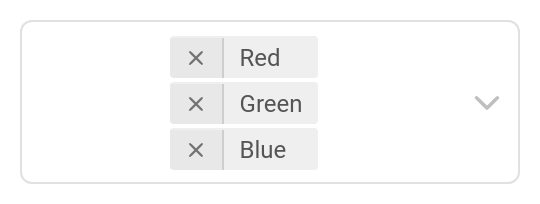
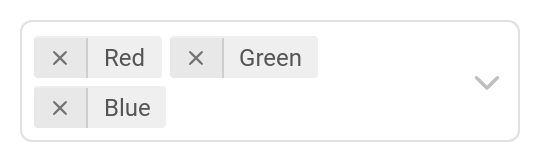
Fix linting issues and update test screenshots

diff --git a/src/select/Select.ts b/src/select/Select.ts
@@ -1511,7 +1511,7 @@ export class Select<T extends SelectOption> extends FormElement {
     const detail = event.detail;
     const fromIdx = detail.fromIdx;
     const toIdx = detail.toIdx;
-    
+
     // Swap the values in the array
     const temp = this.values[fromIdx];
     this.values[fromIdx] = this.values[toIdx];
@@ -1611,75 +1611,80 @@ export class Select<T extends SelectOption> extends FormElement {
                   : null
               }
               ${!this.multi && !this.resolving ? input : null}
-              ${this.multi && this.values.length > 1
-                ? html`
-                    <temba-sortable-list
-                      horizontal
-                      @temba-order-changed=${this.handleOrderChanged}
-                      @temba-drag-start=${this.handleDragStart}
-                      @temba-drag-stop=${this.handleDragStop}
-                    >
-                      ${this.values.map(
-                        (selected: any, index: number) => html`
-                          <div
-                            class="selected-item sortable ${index === this.selectedIndex
-                              ? 'focused'
-                              : ''} ${this.draggingId === `selected-${index}` ? 'dragging' : ''}"
-                            id="selected-${index}"
-                          >
-                            ${this.multi
-                              ? html`
-                                  <div
-                                    class="remove-item"
-                                    style="margin-top:1px"
-                                    @click=${(evt: MouseEvent) => {
-                                      evt.preventDefault();
-                                      evt.stopPropagation();
-                                      this.handleRemoveSelection(selected);
-                                    }}
-                                  >
-                                    <temba-icon
-                                      name="${Icon.delete_small}"
-                                      size="1"
-                                    ></temba-icon>
-                                  </div>
-                                `
-                              : null}
-                            ${this.renderSelectedItem(selected)}
-                          </div>
-                        `
-                      )}
-                    </temba-sortable-list>
-                  `
-                : this.values.map(
-                    (selected: any, index: number) => html`
-                      <div
-                        class="selected-item ${index === this.selectedIndex
-                          ? 'focused'
-                          : ''}"
+              ${
+                this.multi && this.values.length > 1
+                  ? html`
+                      <temba-sortable-list
+                        horizontal
+                        @temba-order-changed=${this.handleOrderChanged}
+                        @temba-drag-start=${this.handleDragStart}
+                        @temba-drag-stop=${this.handleDragStop}
                       >
-                        ${this.multi
-                          ? html`
-                              <div
-                                class="remove-item"
-                                style="margin-top:1px"
-                                @click=${(evt: MouseEvent) => {
-                                  evt.preventDefault();
-                                  evt.stopPropagation();
-                                  this.handleRemoveSelection(selected);
-                                }}
-                              >
-                                <temba-icon
-                                  name="${Icon.delete_small}"
-                                  size="1"
-                                ></temba-icon>
-                              </div>
-                            `
-                          : null}
-                        ${this.renderSelectedItem(selected)}
-                      </div>
+                        ${this.values.map(
+                          (selected: any, index: number) => html`
+                            <div
+                              class="selected-item sortable ${index ===
+                              this.selectedIndex
+                                ? 'focused'
+                                : ''} ${this.draggingId === `selected-${index}`
+                                ? 'dragging'
+                                : ''}"
+                              id="selected-${index}"
+                            >
+                              ${this.multi
+                                ? html`
+                                    <div
+                                      class="remove-item"
+                                      style="margin-top:1px"
+                                      @click=${(evt: MouseEvent) => {
+                                        evt.preventDefault();
+                                        evt.stopPropagation();
+                                        this.handleRemoveSelection(selected);
+                                      }}
+                                    >
+                                      <temba-icon
+                                        name="${Icon.delete_small}"
+                                        size="1"
+                                      ></temba-icon>
+                                    </div>
+                                  `
+                                : null}
+                              ${this.renderSelectedItem(selected)}
+                            </div>
+                          `
+                        )}
+                      </temba-sortable-list>
                     `
-                  )}
+                  : this.values.map(
+                      (selected: any, index: number) => html`
+                        <div
+                          class="selected-item ${index === this.selectedIndex
+                            ? 'focused'
+                            : ''}"
+                        >
+                          ${this.multi
+                            ? html`
+                                <div
+                                  class="remove-item"
+                                  style="margin-top:1px"
+                                  @click=${(evt: MouseEvent) => {
+                                    evt.preventDefault();
+                                    evt.stopPropagation();
+                                    this.handleRemoveSelection(selected);
+                                  }}
+                                >
+                                  <temba-icon
+                                    name="${Icon.delete_small}"
+                                    size="1"
+                                  ></temba-icon>
+                                </div>
+                              `
+                            : null}
+                          ${this.renderSelectedItem(selected)}
+                        </div>
+                      `
+                    )
+              }
               ${this.multi ? input : null}
             </div>
 

diff --git a/demo/test-drag-drop.html b/demo/test-drag-drop.html
@@ -1,0 +1,94 @@
+<!DOCTYPE html>
+<html lang="en-GB">
+<head>
+    <meta charset="utf-8" />
+    <title>Test Drag and Drop</title>
+    <link href="/static/css/temba-components.css" rel="stylesheet" type="text/css" />
+    <style>
+        body { 
+            font-family: sans-serif; 
+            padding: 20px; 
+            max-width: 600px;
+            margin: 0 auto;
+        }
+        .test-container { 
+            margin: 20px 0; 
+            padding: 20px;
+            border: 1px solid #ddd;
+            border-radius: 8px;
+        }
+        .test-container h3 {
+            margin-top: 0;
+            color: #333;
+        }
+    </style>
+</head>
+<body>
+    <h1>Drag and Drop Test</h1>
+    
+    <div class="test-container">
+        <h3>Multi-select with 3 items (should have horizontal layout and drag/drop)</h3>
+        <temba-select multi id="test3">
+            <temba-option name="Red" value="0" selected></temba-option>
+            <temba-option name="Green" value="1" selected></temba-option>
+            <temba-option name="Blue" value="2" selected></temba-option>
+        </temba-select>
+        <div style="margin-top: 10px;">
+            Current values: <span id="values3"></span>
+        </div>
+    </div>
+    
+    <div class="test-container">
+        <h3>Multi-select with 2 items (should have drag/drop)</h3>
+        <temba-select multi id="test2">
+            <temba-option name="Apple" value="apple" selected></temba-option>
+            <temba-option name="Banana" value="banana" selected></temba-option>
+        </temba-select>
+        <div style="margin-top: 10px;">
+            Current values: <span id="values2"></span>
+        </div>
+    </div>
+
+    <div class="test-container">
+        <h3>Multi-select with 1 item (should NOT have drag/drop)</h3>
+        <temba-select multi id="test1">
+            <temba-option name="Solo" value="solo" selected></temba-option>
+        </temba-select>
+        <div style="margin-top: 10px;">
+            Current values: <span id="values1"></span>
+        </div>
+    </div>
+    
+    <script type="module">
+        import '/out-tsc/temba-modules.js';
+        
+        function updateValues() {
+            const test3 = document.getElementById('test3');
+            const test2 = document.getElementById('test2');
+            const test1 = document.getElementById('test1');
+            
+            document.getElementById('values3').textContent = test3.values.map(v => v.name).join(', ');
+            document.getElementById('values2').textContent = test2.values.map(v => v.name).join(', ');
+            document.getElementById('values1').textContent = test1.values.map(v => v.name).join(', ');
+        }
+        
+        window.addEventListener('load', () => {
+            setTimeout(() => {
+                updateValues();
+                
+                // Add change listeners
+                document.querySelectorAll('temba-select').forEach(select => {
+                    select.addEventListener('change', updateValues);
+                });
+                
+                // Check if sortable lists exist
+                console.log('=== Sortable List Check ===');
+                document.querySelectorAll('temba-select').forEach(select => {
+                    const sortableList = select.shadowRoot?.querySelector('temba-sortable-list');
+                    console.log(`${select.id}: has sortable list = ${!!sortableList}, horizontal = ${sortableList?.horizontal}`);
+                });
+            }, 500);
+        });
+    </script>
+</body>
+</html>

diff --git a/test/temba-select.test.ts b/test/temba-select.test.ts
@@ -434,11 +434,11 @@ describe('temba-select', () => {
       );
 
       // Find the sortable list in the shadow DOM
-      const sortableList = select.shadowRoot.querySelector('temba-sortable-list');
+      const sortableList = select.shadowRoot.querySelector(
+        'temba-sortable-list'
+      );
       expect(sortableList).to.not.be.null;
 
-      const bounds = sortableList.getBoundingClientRect();
-      
       // Get the first and second items for dragging
       const firstItem = sortableList.querySelector('#selected-0');
       const secondItem = sortableList.querySelector('#selected-1');
@@ -451,8 +451,8 @@ describe('temba-select', () => {
       // Start drag from first item (Red)
       await moveMouse(firstBounds.left + 10, firstBounds.top + 10);
       await mouseDown();
-      
-      // Drag to second item position (Green) 
+
+      // Drag to second item position (Green)
       await moveMouse(secondBounds.left + 10, secondBounds.top + 10);
       await mouseUp();
 
@@ -472,19 +472,16 @@ describe('temba-select', () => {
     it('does not show sortable list for single item', async () => {
       const select = await createSelect(
         clock,
-        getSelectHTML(
-          [
-            { name: 'Red', value: '0', selected: true }
-          ],
-          {
-            placeholder: 'Select a color',
-            multi: true
-          }
-        )
+        getSelectHTML([{ name: 'Red', value: '0', selected: true }], {
+          placeholder: 'Select a color',
+          multi: true
+        })
       );
 
       // Should not have a sortable list with only one item
-      const sortableList = select.shadowRoot.querySelector('temba-sortable-list');
+      const sortableList = select.shadowRoot.querySelector(
+        'temba-sortable-list'
+      );
       expect(sortableList).to.be.null;
 
       // Should still show the selected item normally
@@ -495,19 +492,16 @@ describe('temba-select', () => {
     it('does not show sortable list for non-multi select', async () => {
       const select = await createSelect(
         clock,
-        getSelectHTML(
-          [
-            { name: 'Red', value: '0', selected: true }
-          ],
-          {
-            placeholder: 'Select a color',
-            multi: false
-          }
-        )
+        getSelectHTML([{ name: 'Red', value: '0', selected: true }], {
+          placeholder: 'Select a color',
+          multi: false
+        })
       );
 
       // Should not have a sortable list for single select
-      const sortableList = select.shadowRoot.querySelector('temba-sortable-list');
+      const sortableList = select.shadowRoot.querySelector(
+        'temba-sortable-list'
+      );
       expect(sortableList).to.be.null;
 
       expect(select.values.length).to.equal(1);

diff --git a/src/list/SortableList.ts b/src/list/SortableList.ts
@@ -168,28 +168,30 @@ export class SortableList extends RapidElement {
 
   private showDropIndicator(targetElement: HTMLElement) {
     this.hideDropIndicator();
-    
+
     if (!targetElement) return;
-    
+
     const container = this.shadowRoot.querySelector('.container');
     this.dropIndicator = document.createElement('div');
     this.dropIndicator.className = 'drop-indicator';
-    
+
     const targetRect = targetElement.getBoundingClientRect();
     const containerRect = container.getBoundingClientRect();
-    
+
     if (this.horizontal) {
       // For horizontal layout, show vertical line
-      this.dropIndicator.style.left = (targetRect.left - containerRect.left) + 'px';
+      this.dropIndicator.style.left =
+        targetRect.left - containerRect.left + 'px';
       this.dropIndicator.style.height = targetRect.height + 'px';
-      this.dropIndicator.style.top = (targetRect.top - containerRect.top) + 'px';
+      this.dropIndicator.style.top = targetRect.top - containerRect.top + 'px';
     } else {
-      // For vertical layout, show horizontal line  
-      this.dropIndicator.style.top = (targetRect.top - containerRect.top) + 'px';
+      // For vertical layout, show horizontal line
+      this.dropIndicator.style.top = targetRect.top - containerRect.top + 'px';
       this.dropIndicator.style.width = targetRect.width + 'px';
-      this.dropIndicator.style.left = (targetRect.left - containerRect.left) + 'px';
+      this.dropIndicator.style.left =
+        targetRect.left - containerRect.left + 'px';
     }
-    
+
     container.appendChild(this.dropIndicator);
   }
 
@@ -235,7 +237,6 @@ export class SortableList extends RapidElement {
       this.ghostElement = this.downEle.cloneNode(true) as HTMLDivElement;
       this.ghostElement.classList.add('ghost');
 
-      const computedStyle = getComputedStyle(this.downEle);
       const rect = this.downEle.getBoundingClientRect();
 
       this.ghostElement.style.width = rect.width + 'px';
@@ -293,7 +294,7 @@ export class SortableList extends RapidElement {
         this.ghostElement.remove();
         this.ghostElement = null;
       }
-      
+
       this.hideDropIndicator();
     }
     document.removeEventListener('mousemove', this.handleMouseMove);
